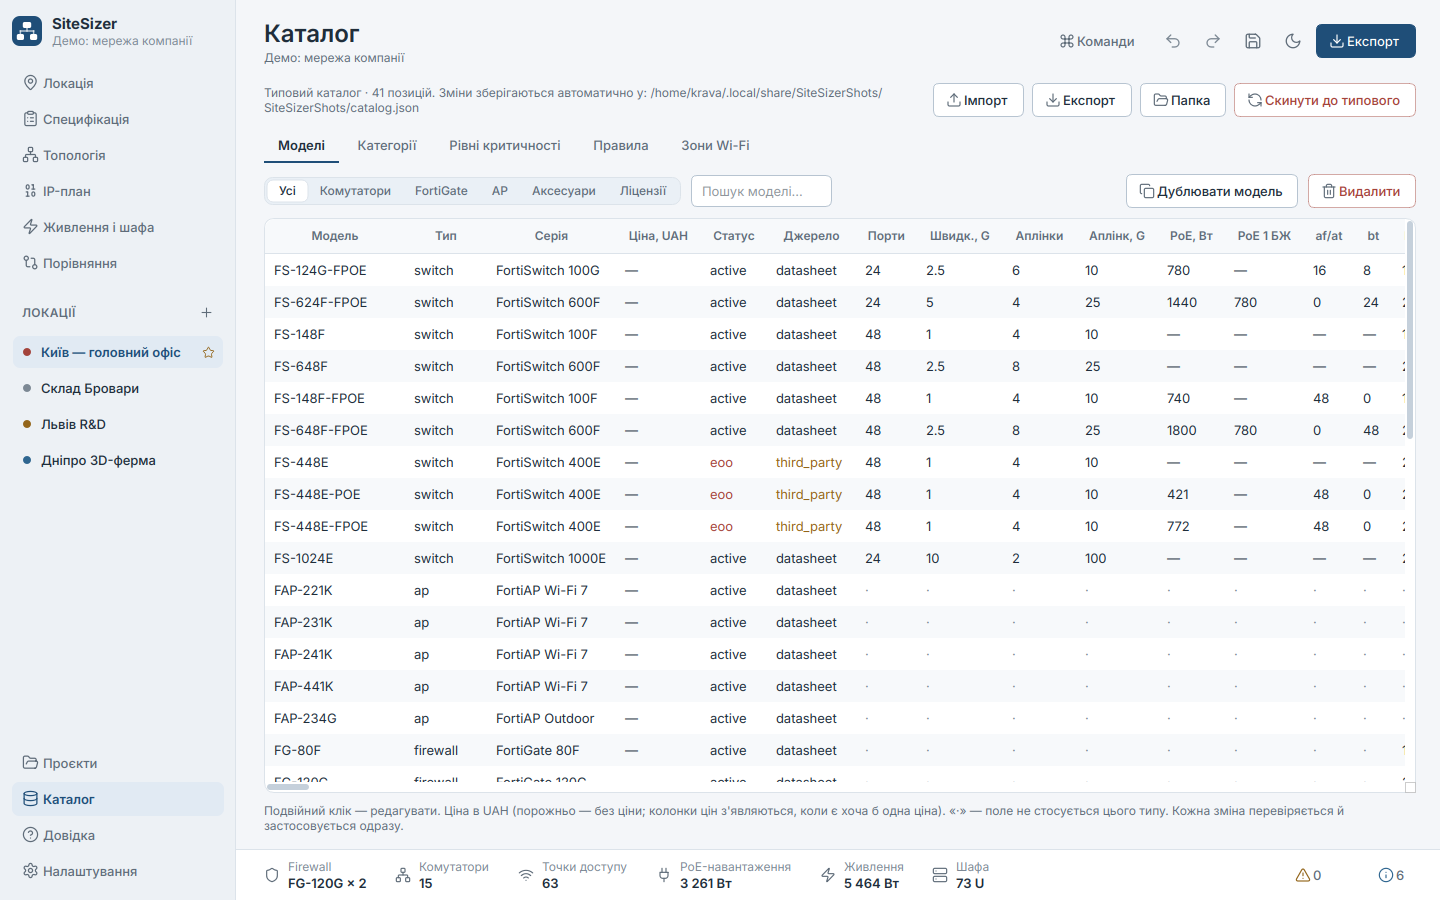
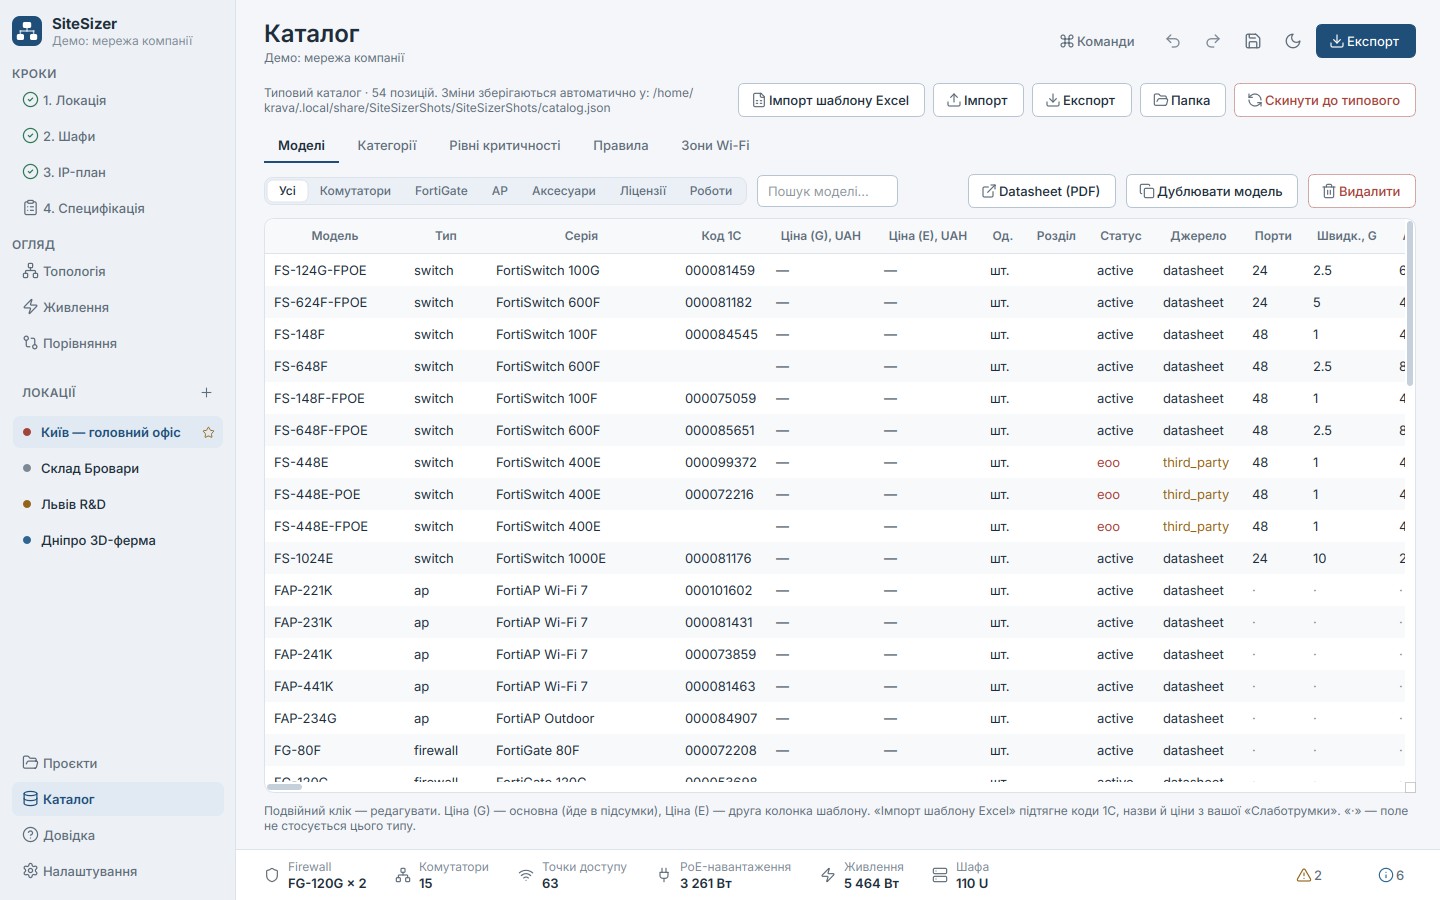
Docs, help and screenshots for the v2 workflow

diff --git a/sitesizer/gui/views/help_view.py b/sitesizer/gui/views/help_view.py
@@ -60,7 +60,10 @@ class HelpView(QWidget):
             tiers=tiers,
             ladder=ladder,
             cats=cats,
-            agg=r.aggregation_auto_threshold,
+            core_sw=r.core_min_switches,
+            core_floors=r.core_min_floors,
+            dac_u=r.dac_short_max_u,
+            template=html.escape(r.ip.id_template),
             reserve=f"{r.reserve_percent_default:g}",
             warn=round(r.poe_warn_ratio * 100),
             cam=f"{r.camera_watts_default:g}",

diff --git a/sitesizer/gui/views/racks.py b/sitesizer/gui/views/racks.py
@@ -167,7 +167,7 @@ class RacksView(QWidget):
         self.summary = label("", "muted", wrap=True)
         self.sum_card.add(self.summary)
         self.sum_card.add(hline())
-        self.sum_card.add(label(tr("rk.legend"), "caption", wrap=True))
+        self.sum_card.add(label(tr("rk.legend", u=state.catalog.rules.dac_short_max_u), "caption", wrap=True))
         side_lay.addWidget(self.sum_card)
         side_lay.addStretch(1)
 

diff --git a/README.md b/README.md
@@ -11,17 +11,30 @@ The UI is Ukrainian by default, with a full English version (Settings → Langua
 ## Швидкий старт (для колег)
 
 1. Запустіть `SiteSizer.exe`.
-2. Натисніть шаблон («Склад», «R&D-офіс», «HQ»…) або введіть кількість розеток, камер і зон Wi-Fi.
-3. Оберіть рівень критичності — праворуч одразу видно, що він змінює.
-4. **Експорт → Excel / PDF.** Готово.
+2. **Локація:** код (напр. `BO123`), ID локації (другий октет, напр. `57` → `10.57.x.x`), кількість поверхів,
+   розетки, камери, зони Wi-Fi (або натисніть шаблон «Склад», «HQ»…).
+3. **Шафи:** перевірте розміщення; пристрої перетягуються мишею, шафи додаються/видаляються.
+4. **IP-план** будується сам з ID локації; номери, назви й маски VLAN змінюються подвійним кліком.
+5. **Специфікація:** за потреби змініть кількість або ціну (подвійний клік), додайте роботи.
+6. **Експорт (`Ctrl+E`)** — позначте, що потрібно: «Слаботрумка», шафи, IP, ціни, PDF, картинки.
 
 `Ctrl+K` — палітра команд, `Ctrl+S` — зберегти проєкт, `F1` — довідка з поясненням логіки.
+Ціни й коди 1С: **Каталог → Імпорт шаблону Excel** (ваш файл «Слаботрумка»).
 
 ## Features
 
+**v2 (company workflow):** site code / location ID / floors · cabinets in the house pattern
+(organizer · panels · organizer · switch) with names like `BO123-5B-ASW01` · drag & drop rack editor (add/remove
+cabinets, organizers, panels) · DAC 1 m / 3 m from the actual layout · FS-1024E core only with > 16 switches and
+> 2 floors · IP table from the location ID (`10.<ID>.<VLAN>.0/24`) with editable VLAN IDs, names and masks ·
+manual quantities and prices, hand-added lines (works) · Excel export in the company template
+(*Слаботрумка* with formulas, cabinets drawn in cells, IP, prices) chosen in an export dialog · Excel template
+import (1C codes, names, two prices) · datasheet links · no customer justification in exports · IP phones removed.
+
 - **Live sizing** — every keystroke recalculates the BoM, diagram, IP plan, power and checks (no "Calculate" button).
-- **Justified BoM** — every line has a customer-facing reason; the *Why this line?* panel shows how it was
-  calculated, which rule or tier added it, and the catalog data behind it.
+- **Editable BoM** — double-click a quantity or price; changing the number of switches re-plans racks, DACs and
+  power. The *Why this line?* panel (for the engineer) shows how each line was calculated; exports carry no
+  justification text.
 - **Criticality tiers 1–4** — firewall HA, N+1 core (MC-LAG), UPS, OOB, dual-PSU switches, dual uplinks, spares,
   FortiGuard/FortiCare level. All of these can be edited in the catalog.
 - **Datasheet-verified catalog** — FortiLink and FortiAP limits, PoE budgets and 802.3bt port counts, power,
@@ -46,6 +59,7 @@ The UI is Ukrainian by default, with a full English version (Settings → Langua
 
 | | |
 |---|---|
+| ![Racks](docs/screenshots/racks-light.png) | ![Racks dark](docs/screenshots/racks-dark.png) |
 | ![BoM](docs/screenshots/bom-light.png) | ![Topology](docs/screenshots/topology-light.png) |
 | ![IP plan](docs/screenshots/ipplan-light.png) | ![Power & rack](docs/screenshots/power-light.png) |
 | ![Compare](docs/screenshots/compare-light.png) | ![Catalog](docs/screenshots/catalog-light.png) |
@@ -80,7 +94,8 @@ python -m sitesizer.cli --compat --json site.json
 
 A site JSON uses the same fields as the GUI: `sockets`, `cameras`, `ap_groups` (`zone`, `qty`, optional `model`),
 `tier`, `aggregation` (`auto`/`yes`/`no`, or the prototype's `y`/`n`/empty), `reserve`, `redundant_psu`,
-`mode` (`quick`/`extended`), `fortios_version`, `inspected_mbps`, `max_cable_run_m`, `ip.base_network`, …
+`mode` (`quick`/`extended`), `fortios_version`, `inspected_mbps`, `max_cable_run_m`, `location_code`,
+`location_id`, `floors`, `ip.base_network`, `bom.overrides`, `layout`, …
 
 ## Windows 11: get the app on another laptop
 
@@ -108,7 +123,7 @@ unused Qt modules are excluded). On Linux/macOS use `./build.sh`.
 
 ```powershell
 pip install -r requirements-dev.txt
-$env:QT_QPA_PLATFORM="offscreen"; python -m pytest      # 145 tests: engine, golden, IP, exporters, GUI smoke
+$env:QT_QPA_PLATFORM="offscreen"; python -m pytest      # 160+ tests: engine, golden, IP, exporters, template import, GUI
 ruff check sitesizer tests; ruff format sitesizer tests
 mypy sitesizer
 python tools\screenshots.py docs\screenshots            # regenerate screenshots (light + dark)
@@ -127,7 +142,11 @@ User data (catalog edits, settings, logs) lives in `%APPDATA%\SiteSizer\SiteSize
 | Whiteboard "25х / 15х" | **2 PSU / 1 PSU.** Premium (dual hot-swap PSU) models are recommended for tiers 1–2, and the app asks you to confirm. The old quantity threshold is still available (`variant_mode: quantity`). |
 | FS-448E family | **Kept as the dual-PSU models**: FS-448E (access) and FS-448E-FPOE (CCTV, 772 W PoE). Third-party sources list them as End-of-Order 2026-09-13, so the app shows an info note to check availability; FS-648F / FS-648F-FPOE are in the catalog as alternatives. FS-448E-POE (421 W, the whiteboard model) stays in the catalog as an alternative. |
 | Not enough 802.3bt ports on FS-124G-FPOE | **Automatic upgrade** to FS-624F-FPOE, explained in the BoM line. |
-| Currency | **UAH**; VAT and discount are optional. Prices are empty by default, so the price columns stay hidden. |
+| Currency | **UAH**; VAT and discount are optional. Two prices per item like the Excel template: **G (main, used in totals)** and E; both editable. |
+| Core switch | **FS-1024E only with more than 16 switches and more than 2 floors** (both thresholds in the catalog). |
+| DAC length | **From the layout**: neighbours in a cabinet (≤ 10U apart) — 1 m, bottom ↔ top or another cabinet — 3 m. |
+| IP plan | **Location ID = second octet**, one /24 per VLAN (`10.<ID>.<VLAN>.0/24`), masks editable per VLAN. |
+| IP phones | **Not used** — the field and the Voice VLAN are gone (old projects still open). |
 | FortiOS version | **Per-location input** (FG-120G manages 48 switches on FortiOS 7.6.1+, 32 on older versions). |
 
 ## Known limitations
@@ -136,5 +155,11 @@ User data (catalog edits, settings, logs) lives in `%APPDATA%\SiteSizer\SiteSize
   🟡 in the app and in RESEARCH.md. Confirm them on support.fortinet.com before quoting.
 - Each switch category uses one model for the whole site (no mixed FS-124G + FS-624F in the same category).
 - PDF tables can break between pages in the middle of a long row.
+- Moving a switch between the main room and a remote closet (IDF) by hand does not re-plan the fibre backbone;
+  fibre is sized from the automatic closets.
+- 1C codes in the default catalog were read from photos of the template — import the real template
+  (Catalog → Import Excel template) to make codes and prices authoritative.
+- FortiSwitch 448E / 1024E have no stand-alone datasheet on fortinet.com any more; their links point to the
+  FortiSwitch ordering guide.
 - The Windows `.exe` has to be built on Windows (`build.ps1`). The PyInstaller spec was validated by building
   and launching a Linux binary.

diff --git a/docs/CATALOG.md b/docs/CATALOG.md
@@ -30,7 +30,14 @@ catalog in the meantime.
       "power_base_w": 100,                 // system power without PoE (used for UPS sizing)
       "power_max_w": 880,
       "rack_units": 1,
-      "price": null,                       // unit price in meta.currency; null = unpriced
+      "price": null,                       // main unit price (template column G); null = unpriced
+      "price_min": null,                   // second price (template column E)
+      "code": "000084545",                 // 1C code (template column A)
+      "unit": "шт.",                       // unit (template column C)
+      "spec_name": "",                     // name as written in the template (used in the exported spec)
+      "section": "",                       // sks | network | works; empty = derived from the kind
+      "order": null,                       // row position in the template (set by the import)
+      "datasheet": "https://…pdf",         // official datasheet, opened from the BoM and the catalog
       "lifecycle": "active",               // active | eoo | eol  → EOO warning in checks
       "verified": "datasheet",             // datasheet | third_party | assumption
       "source": "https://…", "notes": "…"
@@ -69,7 +76,12 @@ catalog in the meantime.
 | `variant_mode` | `dual_psu` | How base/premium is chosen: `dual_psu` (confirmed 2-PSU choice), `quantity` (prototype: count ≥ threshold), `always_base`, `always_premium` |
 | `variant_quantity_threshold` | 25 | Threshold for `quantity` mode |
 | `bt_auto_upgrade` | true | Switch Wi-Fi to the premium model if the APs need more 802.3bt ports than the base model has |
-| `aggregation_auto_threshold` | 3 | "Auto" core from this many access switches |
+| `core_min_switches` | 16 | "Auto" core only with **more** switches than this… |
+| `core_min_floors` | 2 | …and **more** floors than this |
+| `dac_short_model` / `dac_long_model` | FN-CABLE-SFP+1 / +3 | DAC models |
+| `dac_short_max_u` | 10 | Devices in one cabinet at most this many units apart get the short DAC |
+| `ip.id_template` | `10.{id}.{vlan}.0/24` | Subnet of each VLAN from the location ID |
+| `aggregation_auto_threshold` | 3 | Deprecated (kept so older catalogs load) |
 | `core_icl_links`, `core_port_check` | 2, true | MC-LAG ICL links; check the core's port capacity |
 | `reserve_percent_default` | 20 | Growth reserve |
 | `camera_watts_default` | 15 | PoE per camera (editable per location) |
@@ -108,6 +120,12 @@ description and price; scalar fields can be edited in the app (Catalog → Rules
 Cabinet sizes come from models with `rack_size_u` (default RACK-24U and RACK-42U).
 
 ## Common tasks
+
+- **Import the company template** — Catalog → *Import Excel template* → pick the workbook with the
+  *Слаботрумка* sheet. Rows are matched to models by 1C code, then by the model number in the name
+  (`Комутатор FS-148F` → `FS-148F`; rows with *for/для/FortiCare…* are never matched to the device itself).
+  Matched models get the code, name, unit, section and both prices; other rows become new catalog items
+  (kind `work` in the *Роботи* section), so the exported specification lists the whole template.
 
 - **Add prices** — Catalog → Models → double-click *Price, UAH*. Price columns, totals, discount and VAT appear
   in the BoM, Excel and PDF as soon as any line has a price.
